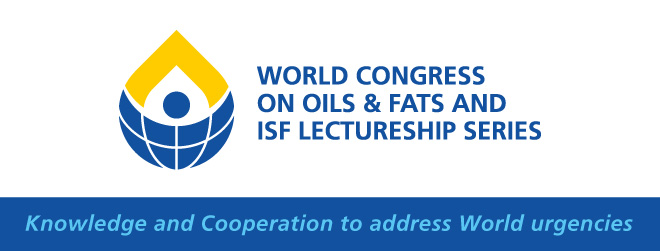
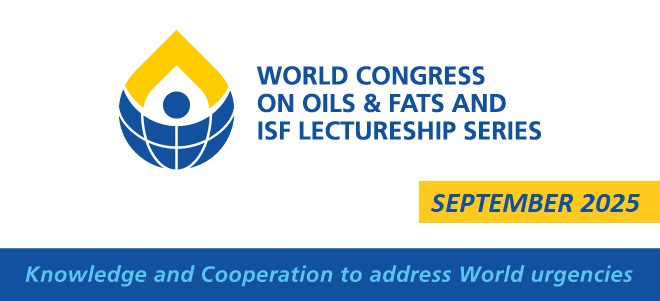
lectureship 2022, actualizaciones, imagenes

Changed region(s): [[0.1818, 0.0837, 0.8182, 0.6972], [0.0, 0.7809, 1.0, 0.9482], [0.6061, 0.5857, 1.0, 0.753]]

diff --git a/index.html b/index.html
@@ -94,15 +94,15 @@
                             </li>
 
                             <li class="nav-item">
-                                <a class="nav-link" href="#about">Members</a>
-                            </li>
-                            
-                            <li class="nav-item">
-                                <a class="nav-link" href="#portfolio">History</a>
+                                <a class="nav-link" href="#about">About</a>
                             </li>
 
                             <li class="nav-item">
                                 <a class="nav-link" href="#awards">Awards</a>
+                            </li>
+
+                            <li class="nav-item">
+                                <a class="nav-link" href="#lecture">Lectureship</a>
                             </li>
                             
                             <li class="nav-item">
@@ -117,19 +117,32 @@
                     </div>
                 </div>
             </nav>
-            
+
+
+
+
+            <div class="img-banner">
+                <img class="img-fluid" src="images/WCOF_ISF_banner.png" alt="World Congress on oils & fats and ISF Lectureship Series Banner">
+            </div>
+
+
+
+            <div class="img-banner-sm">
+                <img class="img-fluid" src="images/WCOF_ISF_a.jpg" alt="World Congress on oils & fats and ISF Lectureship Series Banner">
+            </div>
+
 
 
 
 
             <section class="section-padding pb-0" id="home">
-                <div class="container mb-5 pb-lg-5">
+                <div class="container mb-1 pb-0">
                     <div class="row">
                         <div class="col-12">
                             <h2 class="mb-3 fs-4" data-aos="fade-up">Stimulating the exchange of high quality scientific information and technology pertaining to fats, oils, and related materials.</h2>
                         </div>
 
-                        <div class="col-lg-6 col-12 mt-3 mb-lg-5">
+                        <div class="col-12 mt-3 mb-lg-5">
                             <p class="me-4" data-aos="fade-up" data-aos-delay="300">Founded in 1954, ISF is a federation of 23 regional and national scientific organizations active in the areas of fats, oils, and lipid research.</p>
                         </div>
 
@@ -247,12 +260,12 @@
 
                             <p class="me-4" data-aos="fade-up" data-aos-delay="300">
                                 <strong>Japan Oil Chemists' Society (JOCS)</strong><br>
-                                Web:&nbsp;<a href="http://www.jocs.jp/index-e.html" target="_blank">www.jocs.jp/index-e.html</a><br>
+                                Web:&nbsp;<a href="http://www.jocs.jp/index-e.html" target="_blank">www.jocs.jp</a><br>
                             </p>
 
                             <p class="me-4" data-aos="fade-up" data-aos-delay="300">
                                 <strong>Latin American Section, American Oil Chemists' Society</strong><br>
-                                Web:&nbsp;<a href="http://www.aocs.org/network-and-connect/membership/sections#latin-american-section">www.aocs.org/network-and-connect/membership/sections#latin-american-section</a><br>
+                                Web:&nbsp;<a href="http://www.aocs.org/network-and-connect/membership/sections#latin-american-section">www.aocs.org</a><br>
                             </p>
 
                             <p class="me-4" data-aos="fade-up" data-aos-delay="300">
@@ -271,7 +284,7 @@
 
                             <p class="me-4" data-aos="fade-up" data-aos-delay="300">
                                 <strong>Society of Chemical Industry (SCI)-The Lipids Group</strong><br>
-                                Web:&nbsp;<a href="https://www.soci.org/interest-groups/lipids" target="_blank">www.soci.org/interest-groups/lipids</a>
+                                Web:&nbsp;<a href="https://www.soci.org/interest-groups/lipids" target="_blank">www.soci.org</a>
                             </p>
 
 
@@ -301,12 +314,12 @@
 
                             <p class="me-4" data-aos="fade-up" data-aos-delay="300">
                                 <strong>Canadian Section, American Oil Chemists' Society</strong><br>
-                                Web:<a href="https://www.aocs.org/network-and-connect/membership/sections#canadian-section" target="_blank">&nbsp;https://www.aocs.org/network-and-connect/membership/sections#canadian-section</a><br>
+                                Web:<a href="https://www.aocs.org/network-and-connect/membership/sections#canadian-section" target="_blank">&nbsp;https://www.aocs.org</a><br>
                             </p>
 
                             <p class="me-4" data-aos="fade-up" data-aos-delay="300">
                                 <strong>Deutsche Gesellschaft für Fettwissenschaft e.V. (DGF)</strong><br>
-                                Web:&nbsp;<a href="http://www.dgfett.de/" target="_blank">www.dgfett.de</a><br>
+                                Web:&nbsp;<a href="http://www.dgfett.de/index_en.php" target="_blank">www.dgfett.de</a><br>
                             </p>
 
                             <p class="me-4" data-aos="fade-up" data-aos-delay="300">
@@ -353,9 +366,9 @@
                 </div>
 
 
-            </section>
+            <!-- </section>
 
-            <section class="section-padding" id="portfolio">
+            <section class="section-padding" id="portfolio"> -->
                 <div class="container">
                     <div class="row">
 
@@ -500,7 +513,8 @@
                                 2015—Dr. Alejandro Marangoni, Ontario, Canada <br>
                                 2016—Prof. Yang Yuexin, Beijing, China <br>
                                 2018—Prof. Kazuo Miyashita, Hakodate, Japan <br>
-                                2020—Dr. Richard Cantrill, Halifax, Canada
+                                2020—Dr. Richard Cantrill, Halifax, Canada <br>
+                                2022—Dr. Erick Decker Amherst MA, USA
                             </p>
                         </div>
 
@@ -517,13 +531,39 @@
 
 
 
-
-
-
-
-
-
-
+            <section class="section-padding pb-0" id="lecture">
+                <div class="container mb-5 m-auto pb-lg-5">
+                    <div class="row">
+                        <div class="col-12 text-center">
+                            <h2 class="mb-3 fs-2 m-auto" data-aos="fade-up">Lectureship Series Japon 2022</h2>
+                        </div>
+                    </div>
+                </div>
+                <div class="container mb-5 m-auto pb-lg-5">
+                    <div class="row">
+                        <div class="col-12 text-center">
+                            <img class="img-fluid" src="images/LS2022-1.jpg" alt="World Congress on oils & fats and ISF Lectureship Series Banner">
+                        </div>
+                    </div>
+                </div>
+                <div class="container mb-5 m-auto pb-lg-5">
+                    <div class="row">
+                        <div class="col-12 text-center">
+                            <img class="img-fluid" src="images/LS2022-2.jpg" alt="Illustrative photos of the awarded conference">
+                        </div>
+                    </div>
+                </div>
+                <a class="lectureship-video" target="_blank" href="https://vimeo.com/734623709/26ad67db3a">
+                    <div class="container mb-5 m-auto pb-lg-5">
+                        <div class="row">
+                            <div class="col-12 text-center">
+                                <iframe class="lectureship-iframe" src="http://player.vimeo.com/video/734623709" width="100%" height="500 px" frameborder="0" webkitAllowFullScreen mozallowfullscreen allowFullScreen></iframe>
+                            </div>
+                        </div>
+                    </div>
+                </a>
+                
+            </section>
 
 
 
@@ -594,7 +634,7 @@
                 <div class="container mb-5 m-auto pb-lg-5">
                     <div class="row">
                         <div class="col-12 text-center">
-                            <img class="img-fluid" src="images/WCOF_ISF_a.jpg" alt="World Congress on oils & fats and ISF Lectureship Series Banner">
+                            <img class="img-fluid" src="images/constitution.jpg" alt="World Congress on oils & fats and ISF Lectureship Series Banner">
                         </div>
                     </div>
                 </div>

diff --git a/css/templatemo-nomad-force.css b/css/templatemo-nomad-force.css
@@ -637,6 +637,27 @@ strong {
   color: var(--primary-color);
 }
 
+
+/*---------------------------------------
+ CUSTOM NO RESPONSIVE STYLES:
+ ---------------------------------------- */
+
+ div.img-banner {
+  position: relative;
+  top: -76px;
+}
+
+div.img-banner-sm {
+  display: none;
+}
+
+
+
+
+
+
+
+
 /*---------------------------------------
   RESPONSIVE STYLES               
 -----------------------------------------*/
@@ -694,6 +715,26 @@ strong {
   .news .col-12 .news-two-column:first-child {
     margin-bottom: 38px;
   }
+
+
+
+  /* CUSTOM STYLES: */
+
+
+  div.img-banner {
+    display: none;
+  }
+
+  div.img-banner-sm {
+    display: block;
+  }
+
+  div.img-banner-sm img.img-fluid {
+    display: block;
+    width: 100%;
+  }
+
+
 }
 
 @media screen and (max-width: 767px) {
@@ -740,6 +781,8 @@ strong {
   }
 }
 
+
+
 /* CUSTOM CSS */
 
 /* #logo_isf{
@@ -758,3 +801,40 @@ h2{
 strong{
   color:#0164a5;
 }
+
+/* a.lectureship-video {
+  z-index: 9 !important;
+}
+
+iframe.lectureship-iframe * {
+  z-index: 1;
+} */
+
+
+/* div.videoWrapper {
+  object-fit: cover;
+  height: calc(100% - 76px);
+} */
+
+
+
+
+/* div.img-banner img {
+  position: inherit;
+
+} */
+
+
+
+
+/* div .img-banner {
+  position: 0px 0px;
+  position: relative;
+}
+
+div .img-banner img {
+  position: relative;
+  display: block;
+  z-index: 9;
+  position: 0px 0px;
+} */
